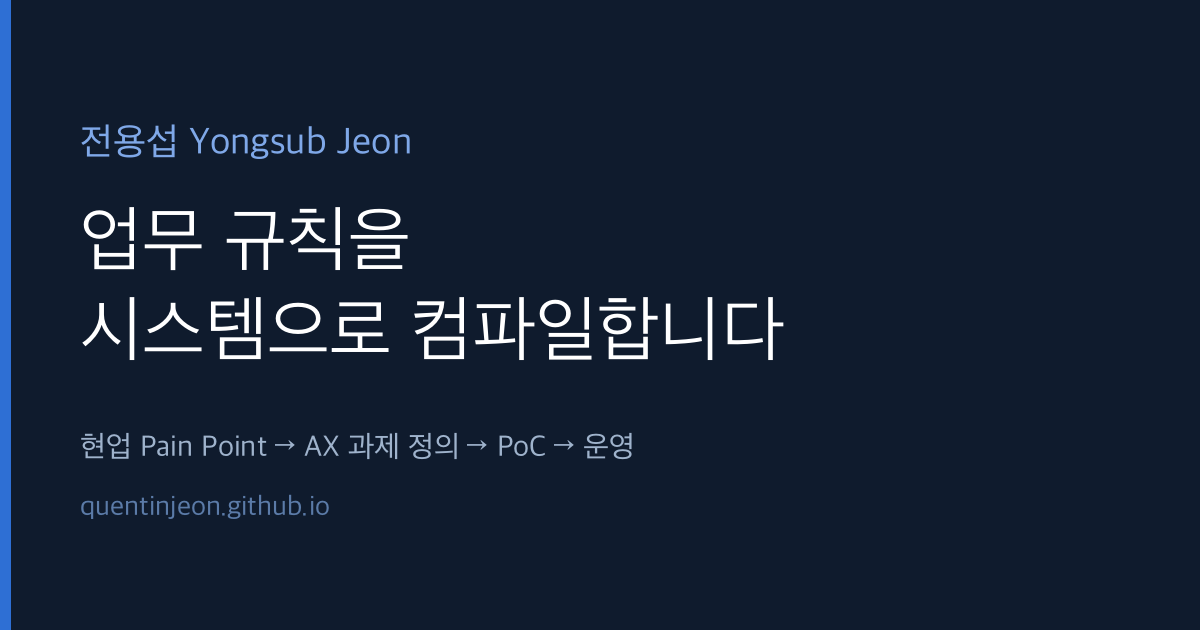
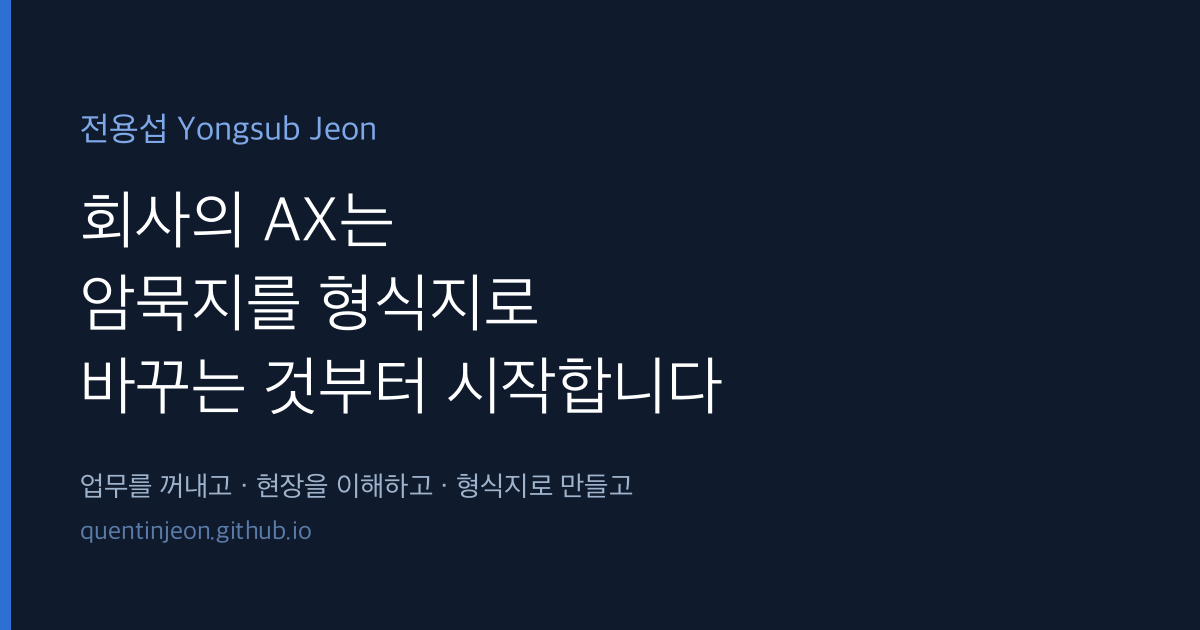
홈 문구 교체 — 암묵지를 형식지로
기존 문구('업무 규칙을 시스템으로 컴파일합니다')를 교체한다.

- index.md 의 title·excerpt 교체, description 신규 작성
- 기본 OG 이미지에 옛 문구가 박혀 있어 새 문구로 재생성

원문에서 띄어쓰기(바꾸는 것부터 / 형식지화하는 일 / 녹이는 일)를 바로잡고,
인접한 두 줄에 '자연스럽게' 가 반복돼 뒤쪽 하나를 뺐다.

Changed region(s): [[0.0617, 0.3016, 0.6475, 0.6635], [0.0617, 0.6937, 0.5242, 0.8746], [0.0617, 0.181, 0.3392, 0.2714]]

diff --git a/index.md b/index.md
@@ -1,8 +1,9 @@
 ---
 layout: splash
 permalink: /
-title: "업무 규칙을 시스템으로 컴파일합니다"
-excerpt: "현장의 말·엑셀·서류를 상태와 감사이력을 가진 시스템으로 바꿉니다.<br>AI로 무엇을 만들었는지가 아니라, **AI를 어디에 두지 않았는지**를 설명할 수 있는 쪽을 지향합니다."
+title: "회사의 AX는 암묵지를 형식지로 바꾸는 것부터 시작합니다"
+excerpt: "업무를 꺼내고, 현장을 이해해서 자연스럽게 **형식지화하는 일**.<br>AI를 우리 일에 녹이는 일을 전문으로 합니다."
+description: "회사의 AX는 암묵지를 형식지로 바꾸는 것부터 시작합니다. 업무를 꺼내고 현장을 이해해 형식지화하고, AI를 실제 업무에 녹이는 일을 합니다."
 header:
   overlay_color: "#12263f"
   actions:
